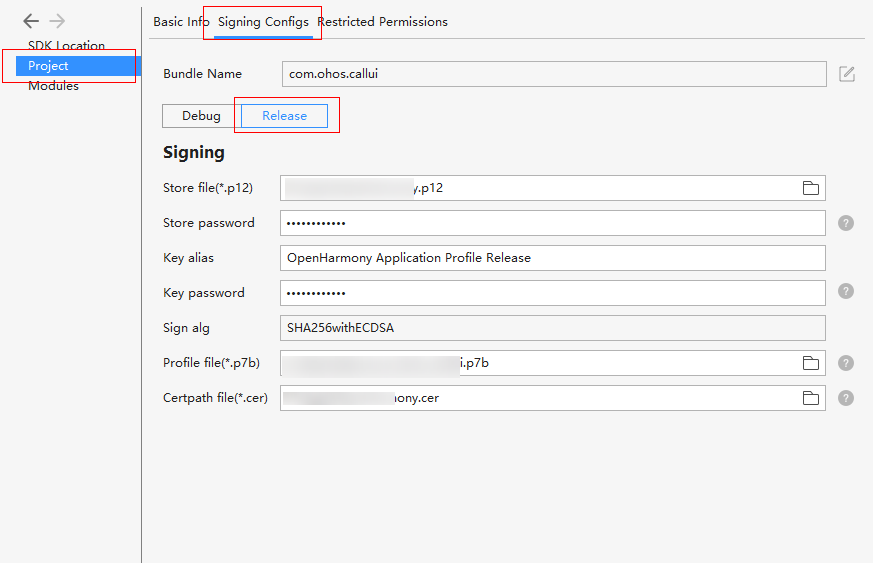
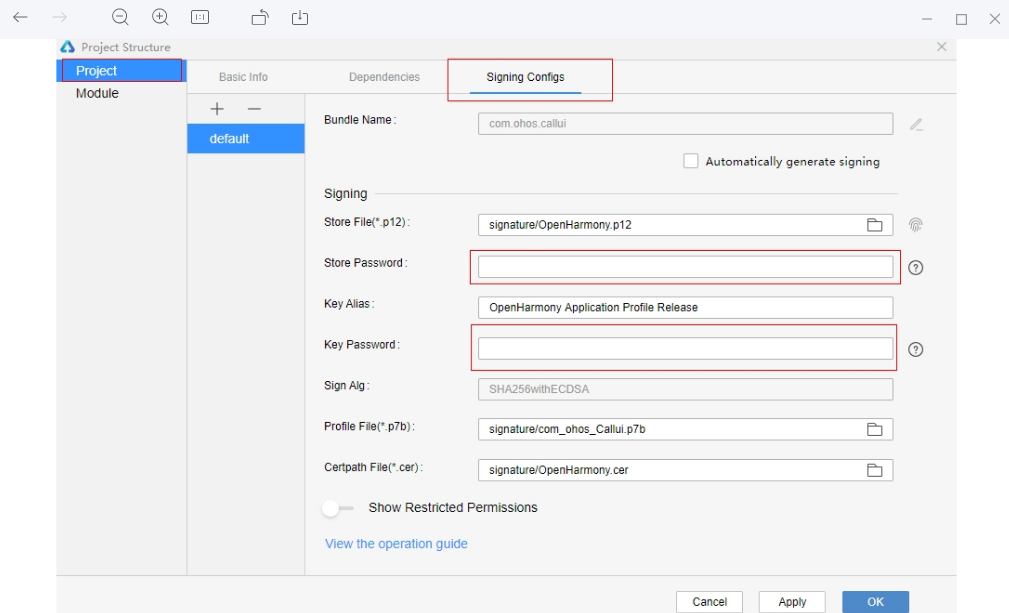
SDK Version upgrade

diff --git a/doc/Instructions.md b/doc/Instructions.md
@@ -99,23 +99,14 @@ import dataStorage from '@ohos.data.storage';
 ## 4. 签名打包
 
 ### 4.1 签名
-#### 4.1.1 签名文件的获取
-
-* 拷贝OpenHarmony/signcenter_tool/key文件下的OpenHarmony.p12到工程的signature文件夹下
-
-* 拷贝OpenHarmony/signcenter_tool/certificates文件下的OpenHarmonyApplication.pem文件，并将其后缀名.pem改为.cer，然后放到工程的signature文件夹下
-
-
-
-#### 4.1.2 签名文件的配置
-
 （1）打开项目工程，选择 File → Project Structure
 
 ![](../doc/image/signature_1.png)
 
 
 
-（2）选择 Project → Signing Configs，将对应的签名文件配置如下，找到上述复制文件的路径，依次填入下图中，完成后点击Apply，再点击OK
+（2）选择 Project → Signing Configs，添加StorePassword：123456abcdef，KeyPassword：123456，
+    依次填入下图中，完成后点击Apply，再点击OK
 
 ![](../doc/image/signature_2.png)
 
